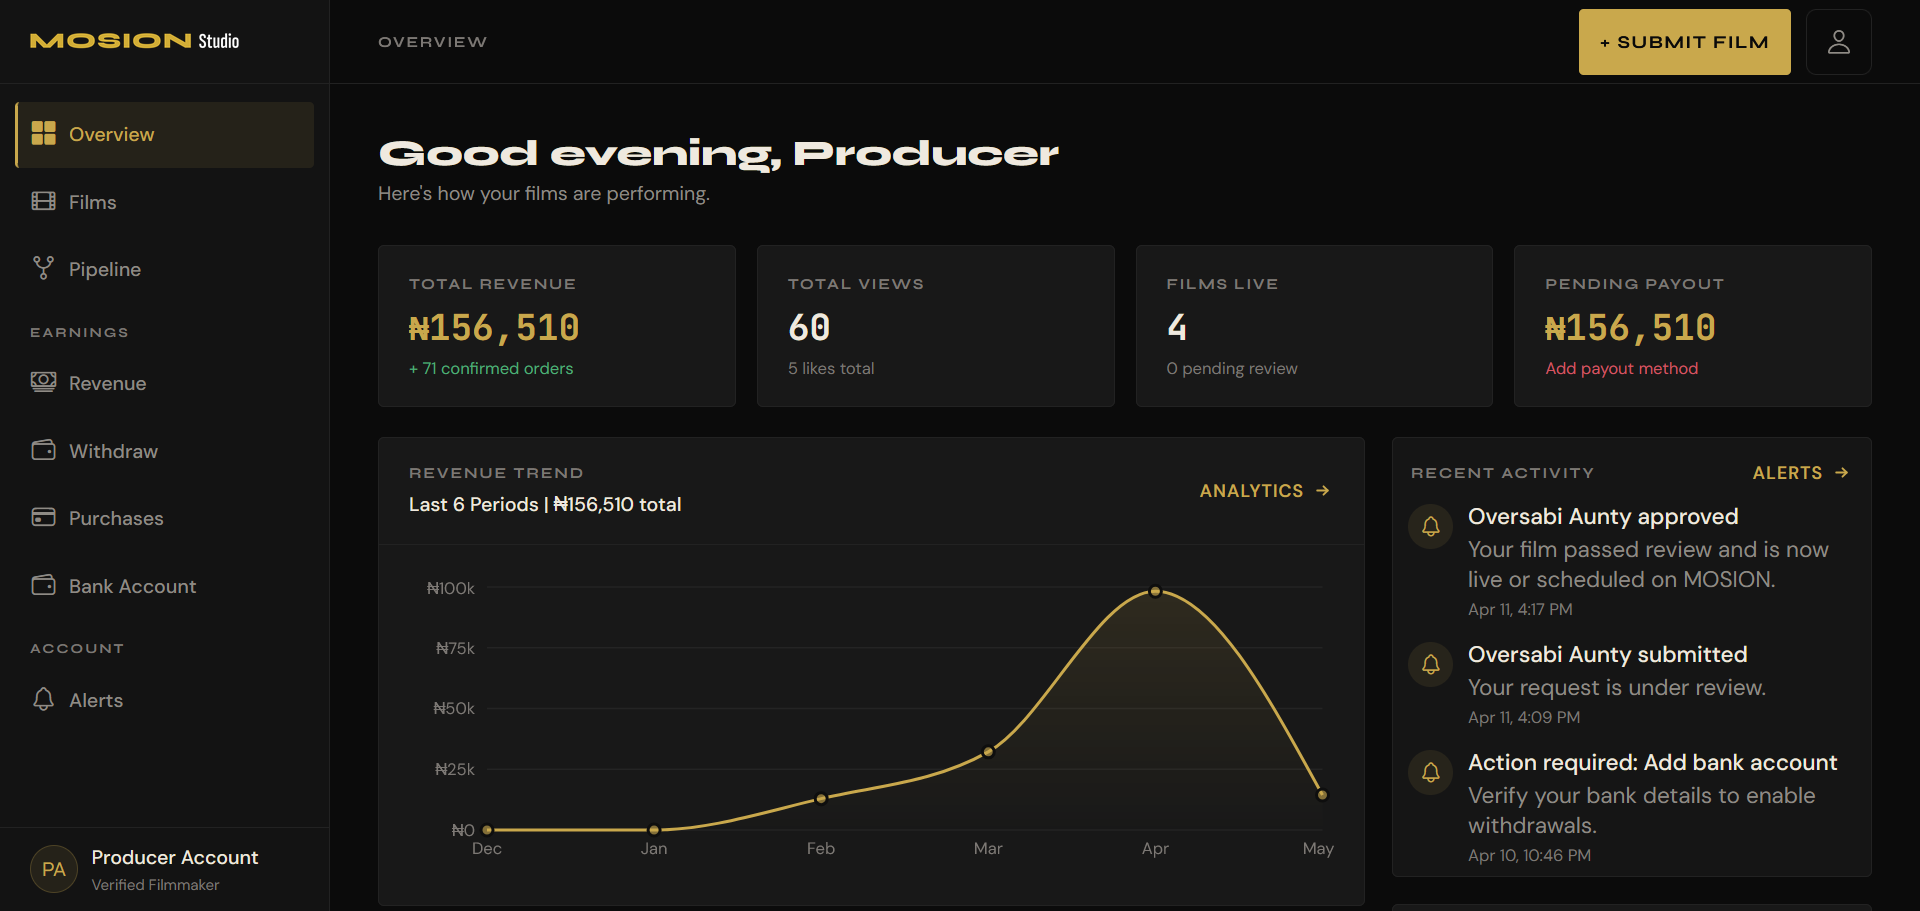
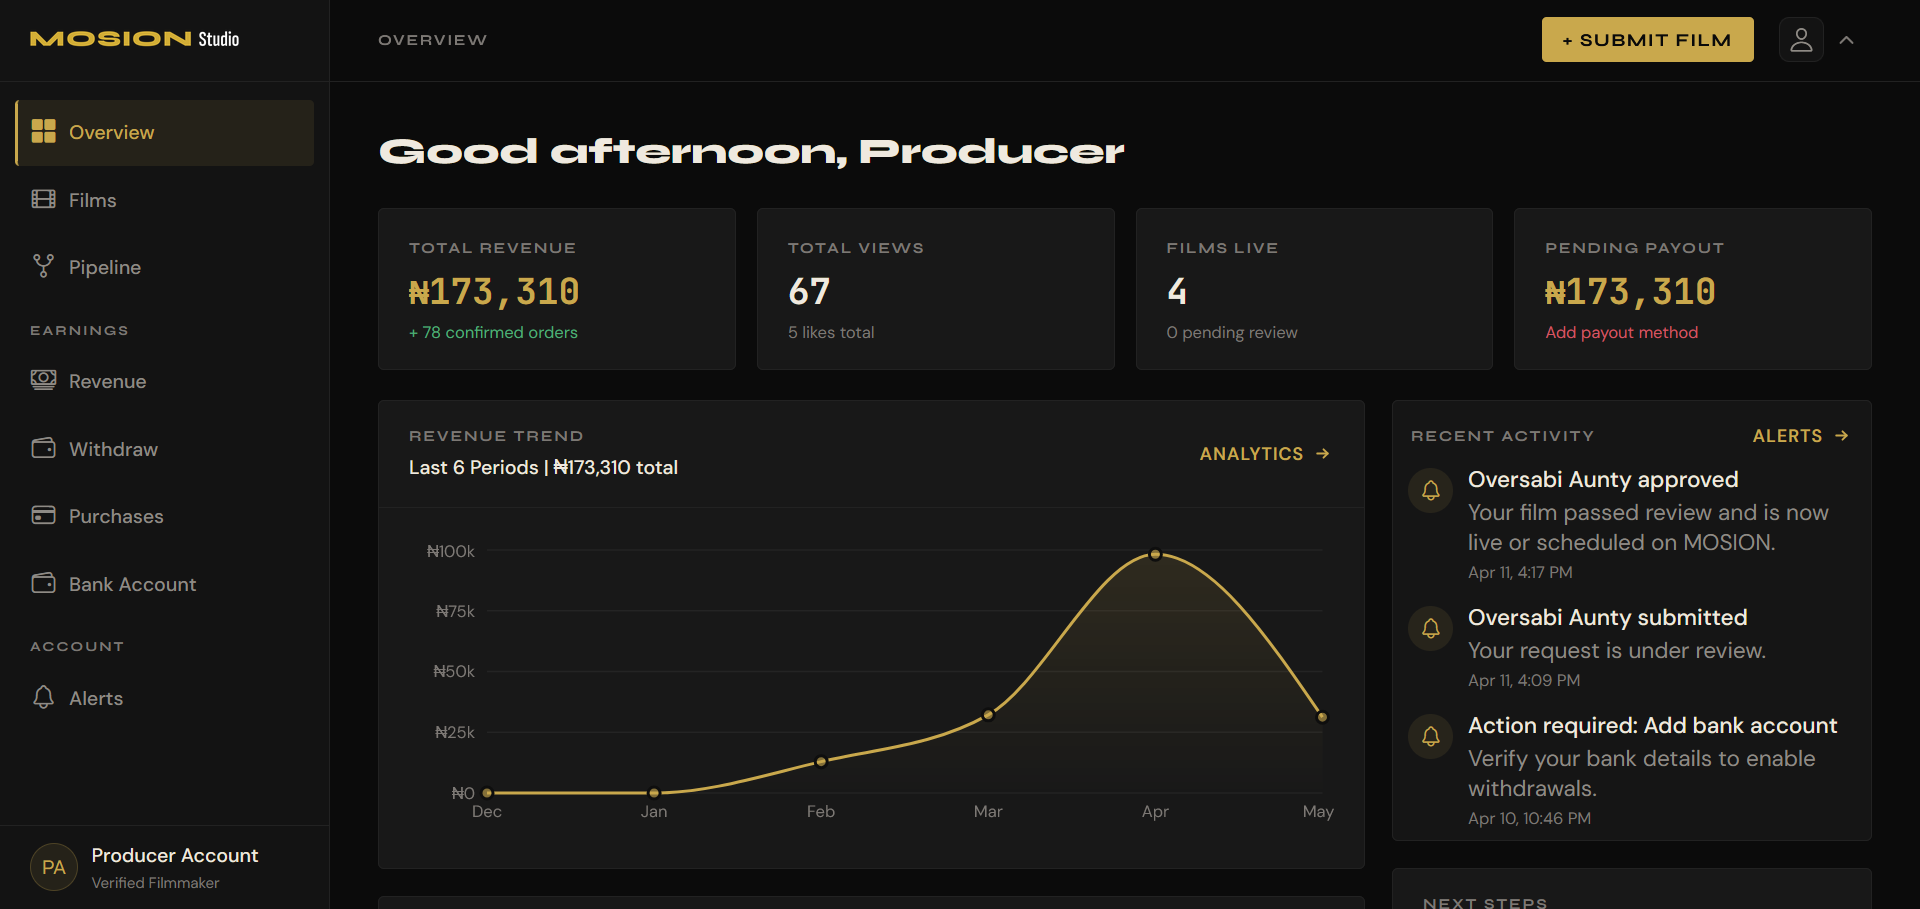
Update studio site assets and styling

diff --git a/studio-site/studio.css b/studio-site/studio.css
@@ -54,7 +54,7 @@ body::before {
 
 /* NAV */
 .site-nav {
-  --nav-logo-height: clamp(30px, 2.2vw, 40px);
+  --nav-logo-height: clamp(26px, 2vw, 34px);
   --nav-logo-stack-gap: 4px;
   position: absolute;
   top: 0; left: 0; right: 0;
@@ -62,9 +62,10 @@ body::before {
   display: flex;
   align-items: center;
   justify-content: space-between;
-  padding: 24px var(--section-gutter);
-  background: linear-gradient(to bottom, rgba(8,8,8,0.95) 0%, transparent 100%);
-  backdrop-filter: blur(0px);
+  padding: 18px var(--section-gutter);
+  background: linear-gradient(to bottom, rgba(8,8,8,0.96) 0%, rgba(8,8,8,0.54) 62%, transparent 100%);
+  border-bottom: 1px solid rgba(201,168,76,0.14);
+  backdrop-filter: blur(10px);
 }
 #process,
 #features,
@@ -159,25 +160,28 @@ body::before {
   display: inline-flex;
   align-items: center;
   justify-content: center;
-  min-height: 38px;
-  padding: 0 14px;
+  min-height: 34px;
+  padding: 0 13px;
   border-radius: 2px;
   border: 1px solid rgba(201, 168, 76, 0.44);
-  background: var(--gold);
+  background: linear-gradient(180deg, rgba(232, 201, 122, 0.96) 0%, rgba(201, 168, 76, 0.92) 100%);
   color: var(--black);
   font-family: 'DM Mono', monospace;
-  font-size: 11px;
+  font-size: 10px;
   font-weight: 500;
-  letter-spacing: 0.12em;
+  letter-spacing: 0.11em;
   line-height: 1;
   text-transform: uppercase;
   text-decoration: none;
   white-space: nowrap;
-  transition: background 0.2s ease, color 0.2s ease;
+  box-shadow: 0 8px 20px rgba(0,0,0,0.28);
+  transition: background 0.2s ease, color 0.2s ease, transform 0.18s ease, box-shadow 0.2s ease;
 }
 .nav-signin-btn:hover {
   background: var(--gold-light);
   color: var(--black);
+  transform: translateY(-1px);
+  box-shadow: 0 10px 24px rgba(0,0,0,0.34);
 }
 .nav-signin-btn:focus-visible {
   outline: 2px solid rgba(232, 201, 122, 0.85);
@@ -1593,8 +1597,9 @@ footer {
   height: 14px;
 }
 .footer-mission {
-  font-family: inherit;
+  font-family: 'Syne', sans-serif;
   font-size: 14px;
+  text-transform: uppercase;
   letter-spacing: 0.04em;
   color: var(--footer-text);
   line-height: 1.9;
@@ -1613,7 +1618,7 @@ footer {
   gap: 14px;
 }
 .footer-heading {
-  font-family: inherit;
+  font-family: 'DM Mono', monospace;
   font-size: 10px;
   letter-spacing: 0.18em;
   text-transform: uppercase;
@@ -1627,6 +1632,8 @@ footer {
   list-style: none;
 }
 .footer-list a {
+  font-family: 'Syne', sans-serif;
+  text-transform: uppercase;
   color: var(--footer-text);
   font-size: 14px;
   line-height: 1.5;
@@ -1686,12 +1693,15 @@ footer {
 }
 .footer-copy {
   margin: 0;
-  font-family: inherit;
+  font-family: 'DM Mono', monospace;
+  text-transform: uppercase;
   font-size: 14px;
   letter-spacing: 0.04em;
   color: var(--footer-text);
 }
 .footer-rc {
+  font-family: 'DM Mono', monospace;
+  text-transform: uppercase;
   font-size: 14px;
   letter-spacing: 0.04em;
   color: var(--footer-text);
@@ -1807,7 +1817,7 @@ footer {
   :root {
     --section-gutter: 32px;
   }
-  .site-nav { padding: 20px var(--section-gutter); }
+  .site-nav { padding: 16px var(--section-gutter); }
   .hero {
     min-height: auto;
     grid-template-columns: 1fr;
@@ -2127,17 +2137,17 @@ footer {
     margin-left: 12px;
   }
   .site-nav {
-    --nav-logo-height: 18px;
+    --nav-logo-height: 16px;
     --nav-logo-stack-gap: 3px;
   }
   .nav-logo {
     gap: 8px;
   }
   .nav-signin-btn {
-    min-height: 28px;
-    padding: 0 14px;
-    font-size: 10px;
-    letter-spacing: 0.1em;
+    min-height: 26px;
+    padding: 0 11px;
+    font-size: 9px;
+    letter-spacing: 0.08em;
   }
   .waitlist {
     padding: 72px var(--section-gutter);
@@ -2299,6 +2309,14 @@ footer {
   }
   .footer-rc-inline {
     display: inline;
+  }
+  .site-footer .footer-mission,
+  .site-footer .footer-heading,
+  .site-footer .footer-list a,
+  .site-footer .footer-copy,
+  .site-footer .footer-rc,
+  .site-footer .footer-rc-inline {
+    text-transform: uppercase !important;
   }
 }
 @media (max-width: 480px) {

diff --git a/studio-site/studio.js b/studio-site/studio.js
@@ -136,12 +136,12 @@
       ? applySection.querySelector(".waitlist-form-area")
       : null;
     const closeButton = document.getElementById("studioFormCancel");
-    const firstNameInput = document.getElementById("firstName");
+    const emailInput = document.getElementById("email");
     const applyLinks = Array.from(
       document.querySelectorAll("a[href='#studioWaitlistForm']")
     );
 
-    if (!applySection || !formArea || !closeButton || !firstNameInput || !applyLinks.length) {
+    if (!applySection || !formArea || !closeButton || !emailInput || !applyLinks.length) {
       return;
     }
 
@@ -150,14 +150,14 @@
     let focusTimer = null;
     let mobileFormOpen = false;
 
-    const focusFirstName = () => {
+    const focusEmail = () => {
       if (focusTimer) {
         window.clearTimeout(focusTimer);
       }
 
       // Let the smooth scroll settle before moving keyboard focus into the form.
       focusTimer = window.setTimeout(() => {
-        firstNameInput.focus();
+        emailInput.focus();
       }, 420);
     };
 
@@ -196,6 +196,7 @@
         if (mobileMedia.matches) {
           event.preventDefault();
           openMobileForm();
+          focusEmail();
           return;
         }
 
@@ -205,7 +206,7 @@
 
         event.preventDefault();
         Site.scrollToHash("#studioWaitlistForm");
-        focusFirstName();
+        focusEmail();
       });
     });
 
@@ -230,6 +231,18 @@
 
     window.addEventListener("resize", syncMobileState, { passive: true });
     syncMobileState();
+
+    const shouldAutoFocusWaitlist =
+      String(window.location.hash || "").trim() === "#studioWaitlistForm";
+
+    if (shouldAutoFocusWaitlist) {
+      if (mobileMedia.matches) {
+        openMobileForm();
+      } else {
+        Site.scrollToHash("#studioWaitlistForm");
+      }
+      focusEmail();
+    }
   }
 
   function flashInvalidInputs(inputs) {

diff --git a/studio-site/index.html b/studio-site/index.html
@@ -41,7 +41,7 @@
 <link rel="preconnect" href="https://fonts.googleapis.com" />
 <link rel="preconnect" href="https://fonts.gstatic.com" crossorigin />
 <link href="https://fonts.googleapis.com/css2?family=Bebas+Neue&family=Playfair+Display:ital,wght@0,400;0,700;0,900;1,400;1,700&family=DM+Mono:wght@300;400;500&family=Syne:wght@400;600;700;800&display=swap" rel="stylesheet" />
-<link rel="stylesheet" href="./studio.css?v=20260509-studio-nav-footer1" />
+<link rel="stylesheet" href="./studio.css?v=20260510-nav-polish1" />
 <script type="application/ld+json">
 {
   "@context": "https://schema.org",